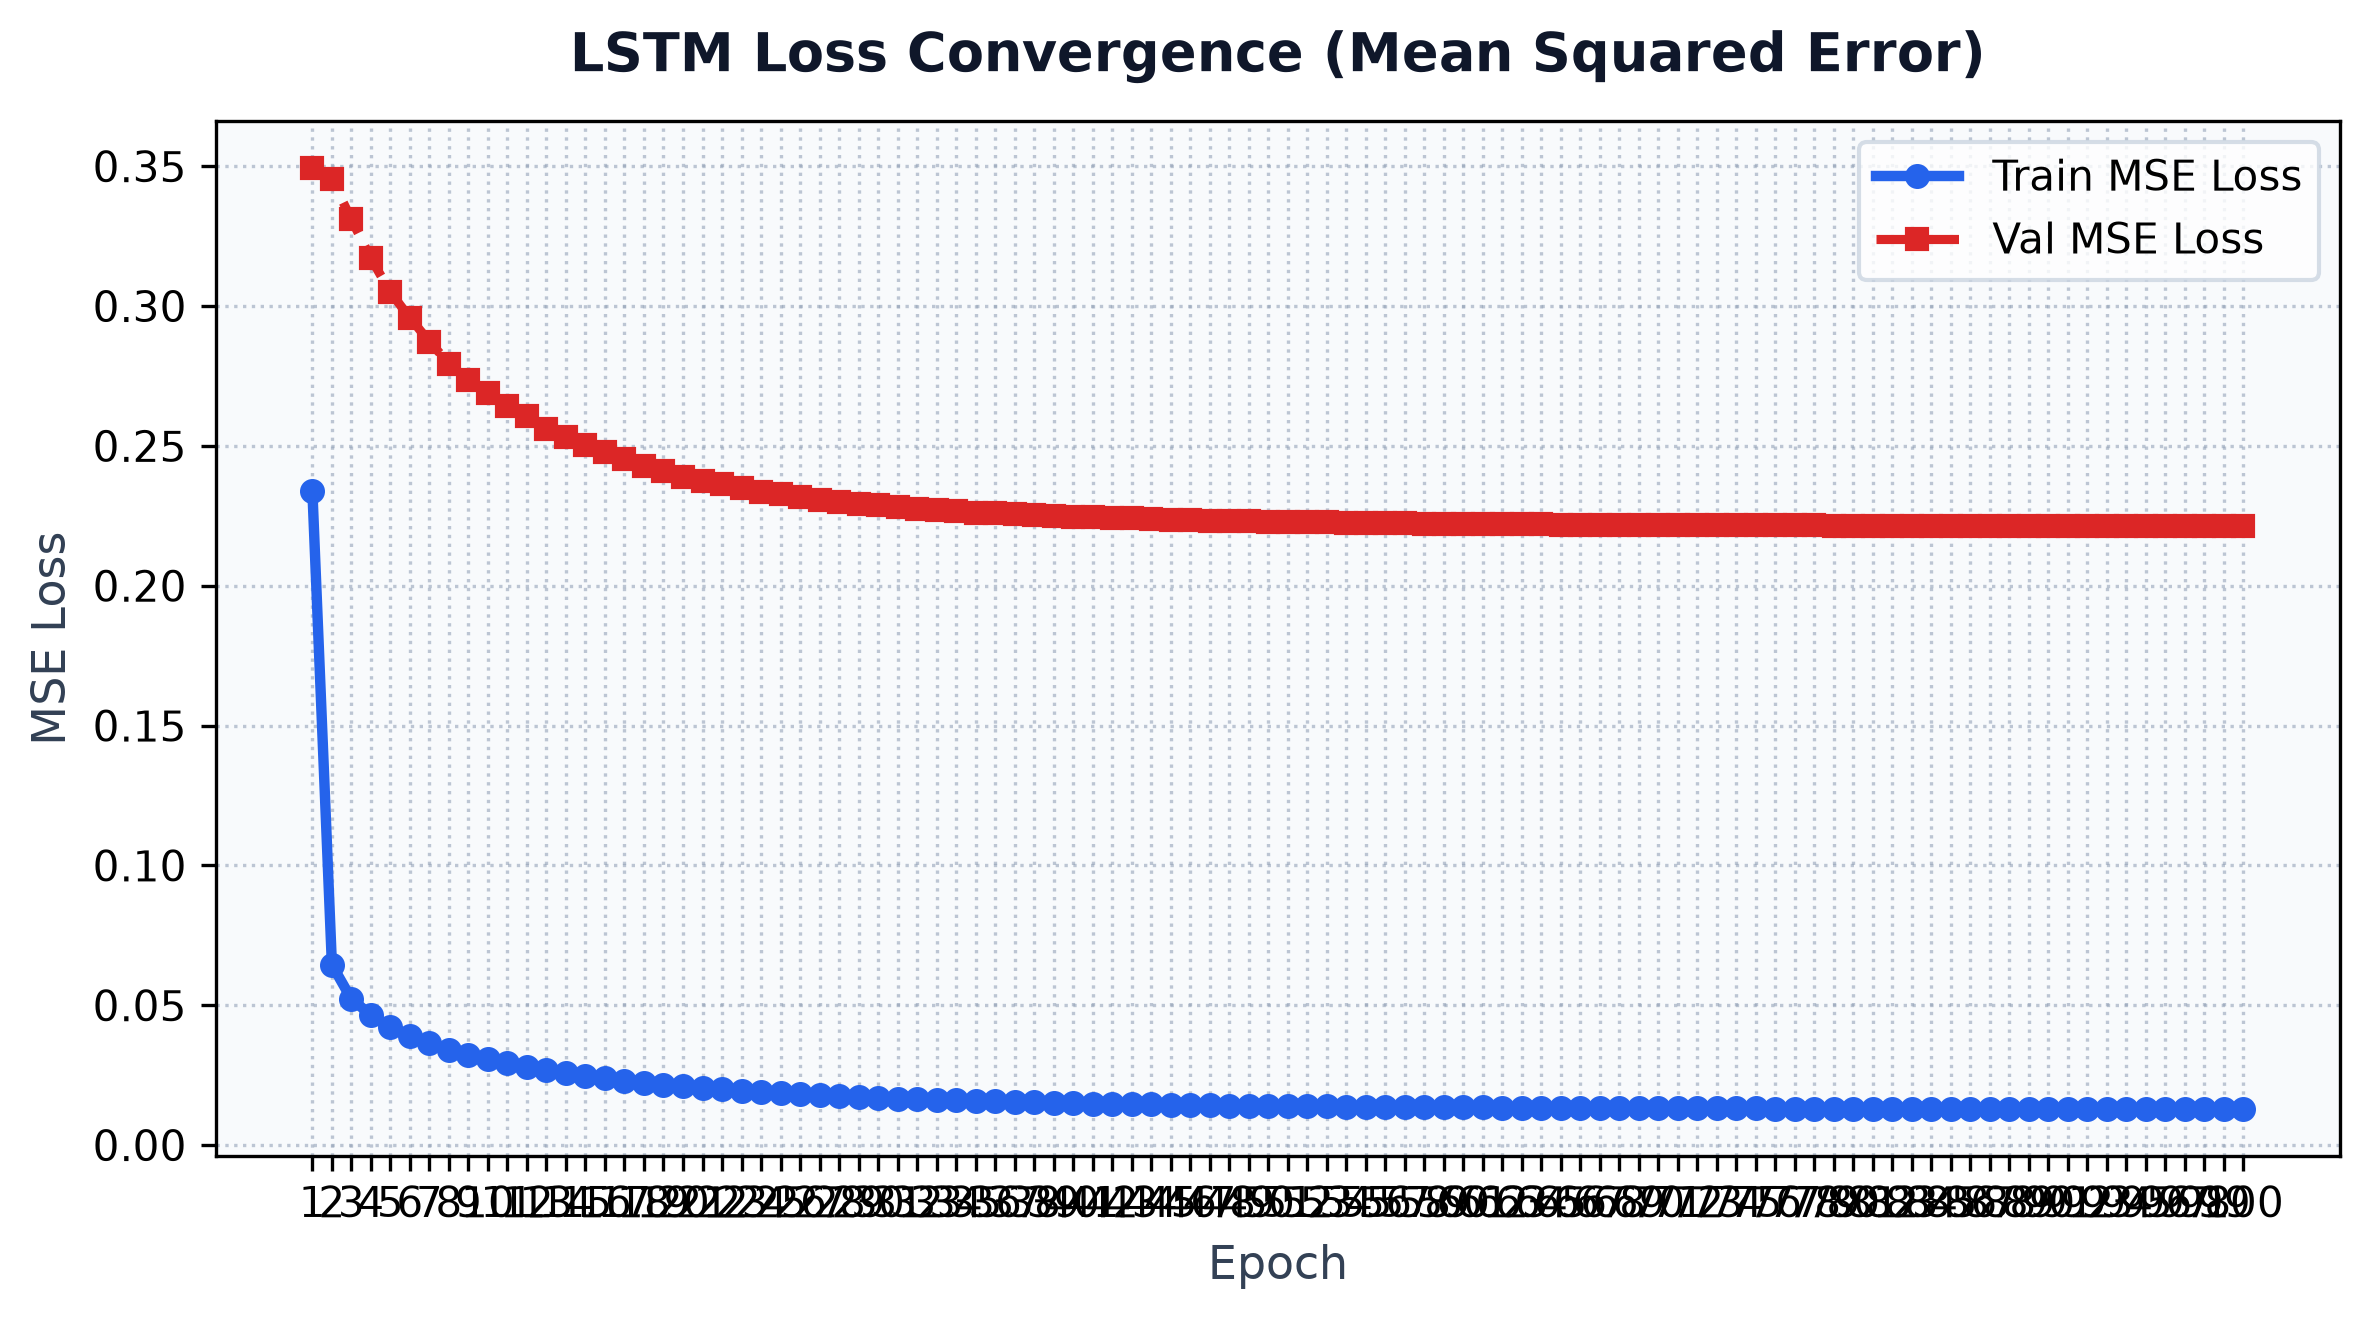
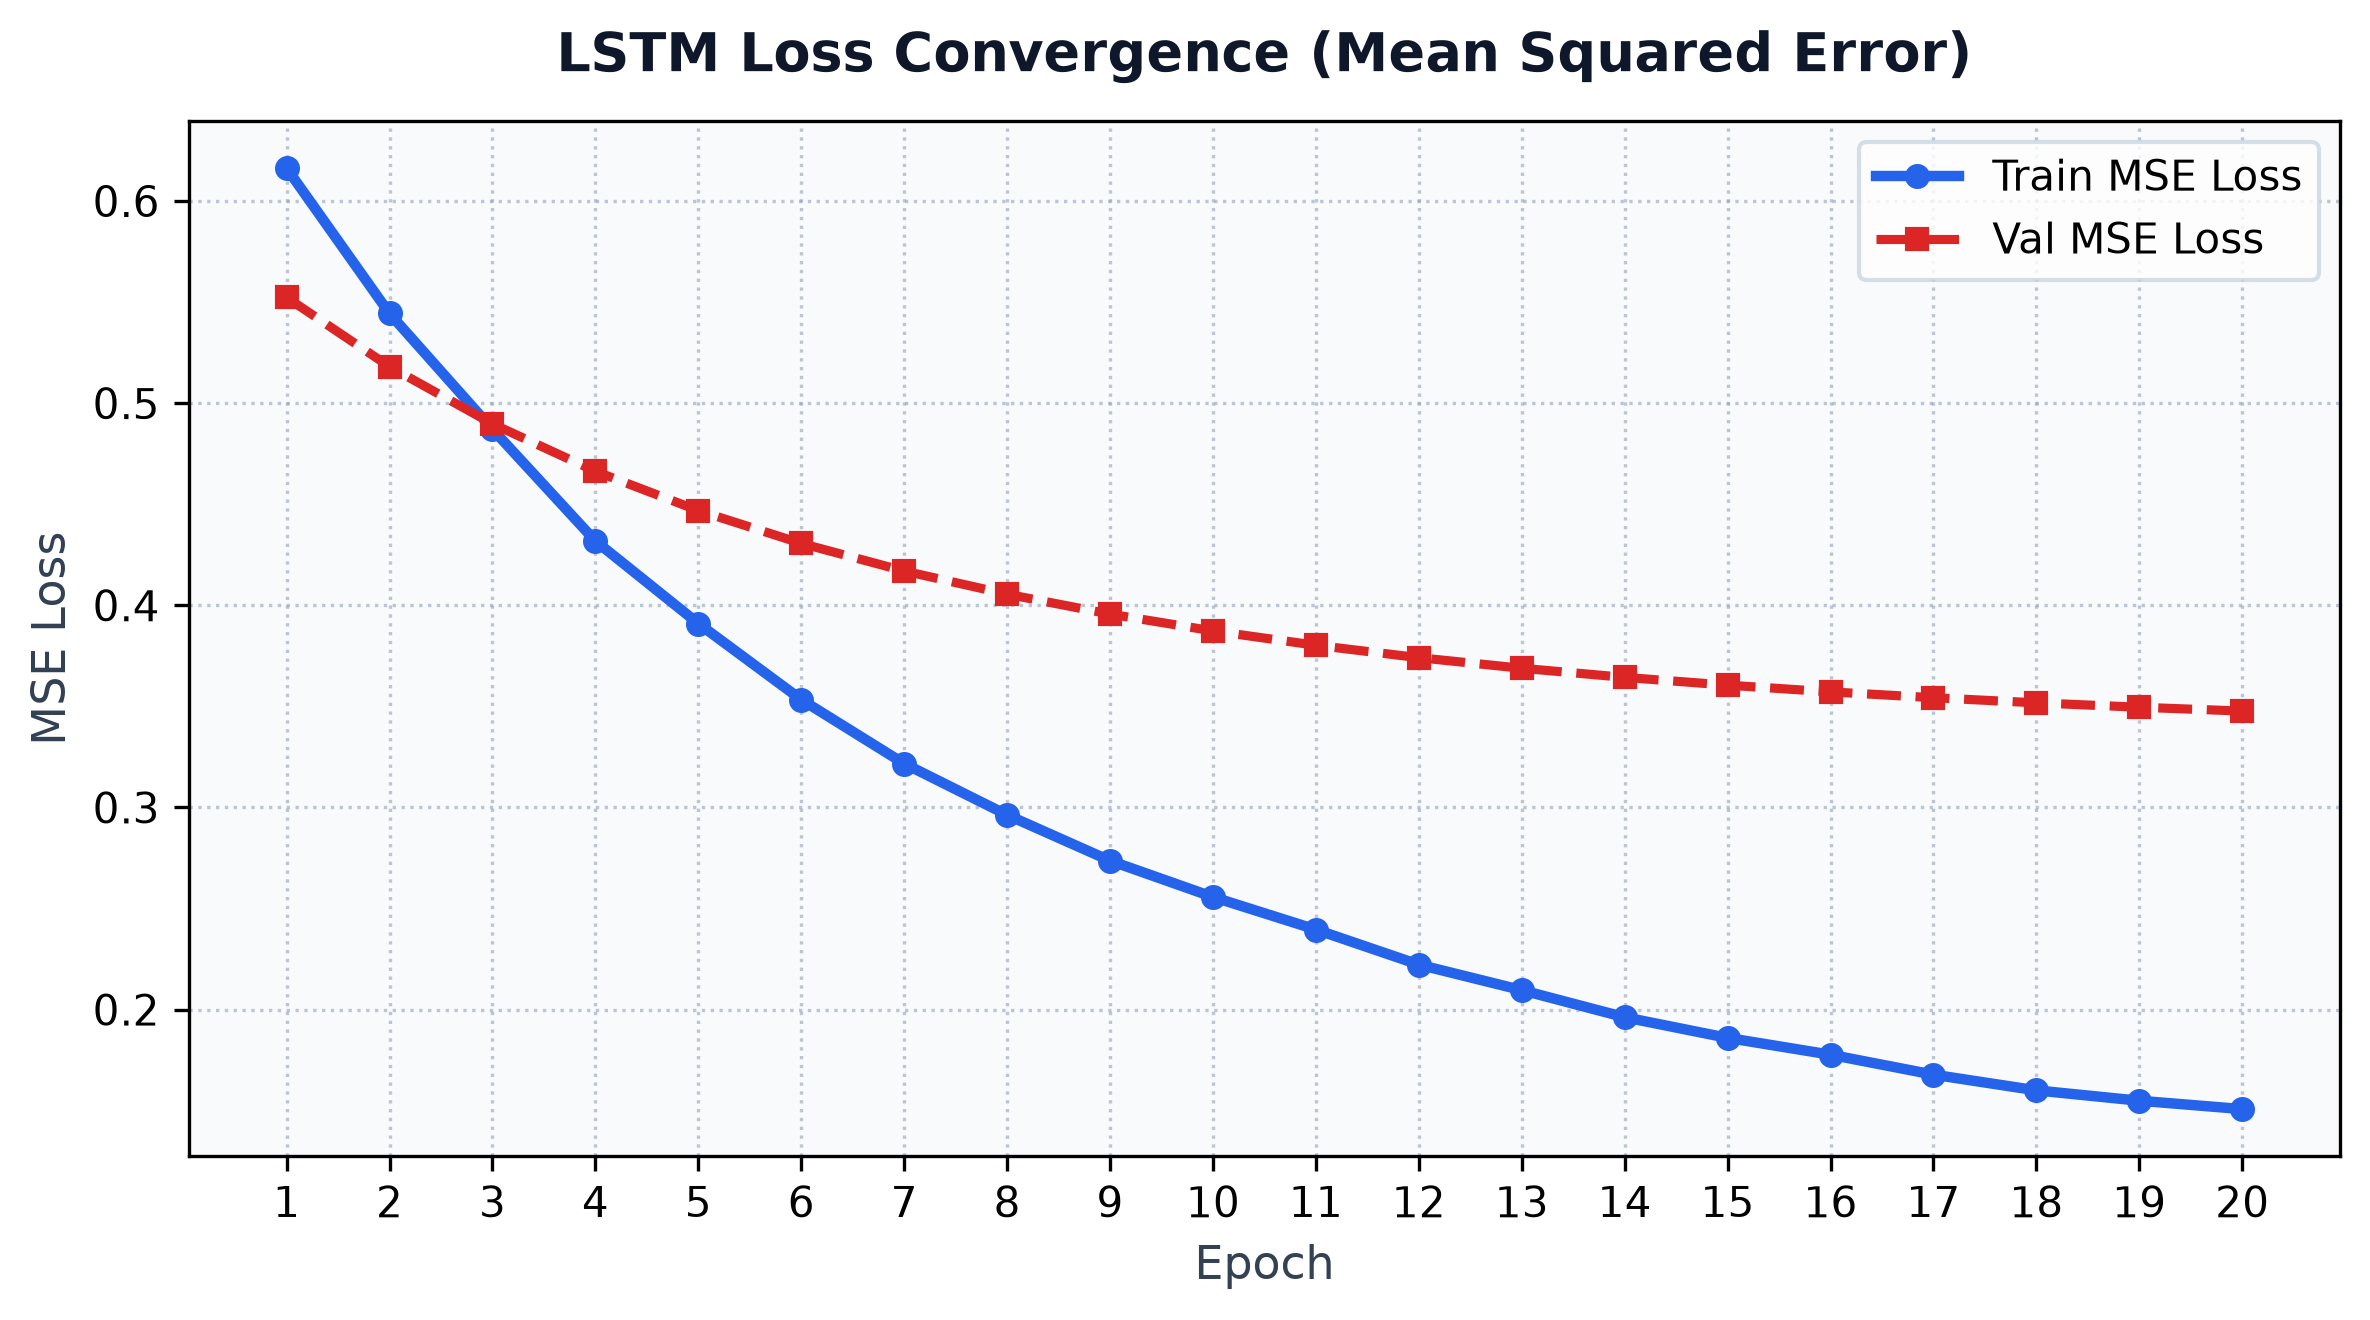
Add L2 weight decay, gradient clipping, and recurrent dropout regularization to LSTM

diff --git a/src/lstm/cell.py b/src/lstm/cell.py
@@ -1,4 +1,4 @@
-"""Modular, vectorized LSTM Cell implementation."""
+"""Modular, vectorized LSTM Cell implementation with gradient clipping and L2 regularization."""
 
 import numpy as np
 from typing import Tuple, Dict
@@ -13,6 +13,8 @@ class LSTMCell:
         input_dim: int,
         hidden_dim: int,
         learning_rate: float = 0.01,
+        weight_decay: float = 1e-4,
+        grad_clip: float = 5.0,
     ) -> None:
         """Initialize LSTM cell parameters.
 
@@ -20,10 +22,14 @@ class LSTMCell:
             input_dim: Input dimension size.
             hidden_dim: Hidden state / cell state dimension size.
             learning_rate: Learning rate for parameters.
+            weight_decay: L2 regularization coefficient.
+            grad_clip: Maximum gradient norm for clipping.
         """
         self.input_dim = input_dim
         self.hidden_dim = hidden_dim
         self.learning_rate = learning_rate
+        self.weight_decay = weight_decay
+        self.grad_clip = grad_clip
 
         # Xavier / Glorot uniform initialization for combined weights [W_f; W_i; W_c; W_o]
         concat_dim = input_dim + hidden_dim
@@ -51,10 +57,7 @@ class LSTMCell:
         Returns:
             Tuple of (h_next, c_next, cache_dict).
         """
-        # Concatenate input and previous hidden state: (N, input_dim + hidden_dim)
         z = np.hstack((x, h_prev))
-
-        # Gate linear projection: (N, 4 * hidden_dim)
         gates = np.dot(z, self.W.T) + self.b
 
         H = self.hidden_dim
@@ -63,11 +66,8 @@ class LSTMCell:
         c_tilde = Tanh.forward(gates[:, 2*H:3*H])
         o_gate = Sigmoid.forward(gates[:, 3*H:])
 
-        # Cell state update
         c_next = f_gate * c_prev + i_gate * c_tilde
         tanh_c_next = Tanh.forward(c_next)
-
-        # Hidden state update
         h_next = o_gate * tanh_c_next
 
         cache = {
@@ -107,43 +107,43 @@ class LSTMCell:
         c_tilde = cache["c_tilde"]
         o_gate = cache["o_gate"]
         c_prev = cache["c_prev"]
-        c_next = cache["c_next"]
         tanh_c_next = cache["tanh_c_next"]
 
-        # Gradient wrt output gate and tanh(c_next)
         do_gate = dh_next * tanh_c_next
         dc_target = dh_next * o_gate * Tanh.derivative(tanh_c_next) + dc_next
 
-        # Gradients wrt individual gates
         df_gate = dc_target * c_prev
         di_gate = dc_target * c_tilde
         dc_tilde = dc_target * i_gate
         dc_prev = dc_target * f_gate
 
-        # Derivatives wrt pre-activation gates
         d_gates_f = df_gate * Sigmoid.derivative(f_gate)
         d_gates_i = di_gate * Sigmoid.derivative(i_gate)
         d_gates_c = dc_tilde * Tanh.derivative(c_tilde)
         d_gates_o = do_gate * Sigmoid.derivative(o_gate)
 
-        # Concatenate gate derivatives: (N, 4 * hidden_dim)
         d_gates = np.hstack((d_gates_f, d_gates_i, d_gates_c, d_gates_o))
 
-        # Weight and bias gradients
         self.dW += np.dot(d_gates.T, z)
         self.db += np.sum(d_gates, axis=0)
 
-        # Gradient wrt concatenated input z = [x, h_prev]
         dz = np.dot(d_gates, self.W)
-
         dx = dz[:, :self.input_dim]
         dh_prev = dz[:, self.input_dim:]
 
         return dx, dh_prev, dc_prev
 
-    def update_params(self) -> None:
-        """Update weights and zero out gradient accumulators."""
-        self.W -= self.learning_rate * self.dW
-        self.b -= self.learning_rate * self.db
+    def update_params(self, batch_size: int = 1) -> None:
+        """Update weights with L2 regularization and gradient clipping."""
+        g_W = self.dW / batch_size + self.weight_decay * self.W
+        g_b = self.db / batch_size
+
+        if self.grad_clip > 0.0:
+            g_W = np.clip(g_W, -self.grad_clip, self.grad_clip)
+            g_b = np.clip(g_b, -self.grad_clip, self.grad_clip)
+
+        self.W -= self.learning_rate * g_W
+        self.b -= self.learning_rate * g_b
+
         self.dW.fill(0.0)
         self.db.fill(0.0)

diff --git a/src/lstm/layers.py b/src/lstm/layers.py
@@ -1,4 +1,4 @@
-"""Recurrent LSTM sequence layer."""
+"""Recurrent LSTM sequence layer with dropout support."""
 
 import numpy as np
 from typing import Tuple, List, Dict, Union
@@ -13,7 +13,10 @@ class LSTMLayer:
         input_dim: int,
         hidden_dim: int,
         return_sequences: bool = False,
+        dropout: float = 0.0,
         learning_rate: float = 0.01,
+        weight_decay: float = 1e-4,
+        grad_clip: float = 5.0,
     ) -> None:
         """Initialize LSTMLayer.
 
@@ -21,17 +24,28 @@ class LSTMLayer:
             input_dim: Input dimension per step.
             hidden_dim: Number of hidden units.
             return_sequences: Whether to return full output sequence or final hidden state.
+            dropout: Dropout probability (0.0 to 1.0) applied to hidden states.
             learning_rate: Learning rate for parameters.
+            weight_decay: L2 regularization coefficient.
+            grad_clip: Maximum gradient norm for clipping.
         """
         self.input_dim = input_dim
         self.hidden_dim = hidden_dim
         self.return_sequences = return_sequences
-        self.cell = LSTMCell(input_dim, hidden_dim, learning_rate=learning_rate)
+        self.dropout = dropout
+        self.cell = LSTMCell(
+            input_dim,
+            hidden_dim,
+            learning_rate=learning_rate,
+            weight_decay=weight_decay,
+            grad_clip=grad_clip,
+        )
 
         # Cache for backpropagation through time
         self.caches: List[Dict[str, np.ndarray]] = []
         self.h_states: List[np.ndarray] = []
         self.c_states: List[np.ndarray] = []
+        self.dropout_mask: np.ndarray = np.array([])
 
     def set_learning_rate(self, lr: float) -> None:
         """Set learning rate for the underlying cell."""
@@ -64,12 +78,21 @@ class LSTMLayer:
             c_states.append(c_curr)
             outputs.append(h_curr)
 
+        out_arr = np.stack(outputs, axis=1)  # (N, T, hidden_dim)
+
+        # Inverted dropout regularization during training
+        mask = np.ones_like(out_arr)
+        if training and self.dropout > 0.0:
+            prob = 1.0 - self.dropout
+            mask = (np.random.rand(*out_arr.shape) < prob) / prob
+            out_arr = out_arr * mask
+
         if training:
             self.caches = caches
             self.h_states = h_states
             self.c_states = c_states
+            self.dropout_mask = mask
 
-        out_arr = np.stack(outputs, axis=1)  # (N, T, hidden_dim)
         if self.return_sequences:
             return out_arr
         return out_arr[:, -1, :]  # (N, hidden_dim)
@@ -87,11 +110,13 @@ class LSTMLayer:
         N = dL_dout.shape[0]
 
         if not self.return_sequences:
-            # Map single output gradient to final step T-1
             dL_dout_seq = np.zeros((N, T, self.hidden_dim), dtype=np.float32)
             dL_dout_seq[:, -1, :] = dL_dout
         else:
             dL_dout_seq = dL_dout
+
+        if self.dropout > 0.0 and self.dropout_mask.size > 0:
+            dL_dout_seq = dL_dout_seq * self.dropout_mask
 
         dX = np.zeros((N, T, self.input_dim), dtype=np.float32)
         dh_next = np.zeros((N, self.hidden_dim), dtype=np.float32)
@@ -102,5 +127,5 @@ class LSTMLayer:
             dx_t, dh_next, dc_next = self.cell.backward(dh_t, dc_next, self.caches[t])
             dX[:, t, :] = dx_t
 
-        self.cell.update_params()
+        self.cell.update_params(batch_size=N)
         return dX

diff --git a/src/lstm/model.py b/src/lstm/model.py
@@ -1,4 +1,4 @@
-"""Sequential LSTM Model Container for time-series forecasting."""
+"""Sequential LSTM Model Container for time-series forecasting with regularization."""
 
 import numpy as np
 from typing import List, Dict, Tuple, Optional
@@ -16,6 +16,9 @@ class SequentialLSTM:
         hidden_dim: int = 32,
         output_dim: int = 1,
         learning_rate: float = 0.01,
+        weight_decay: float = 1e-4,
+        dropout: float = 0.0,
+        grad_clip: float = 5.0,
     ) -> None:
         """Initialize SequentialLSTM container.
 
@@ -24,9 +27,26 @@ class SequentialLSTM:
             hidden_dim: LSTM hidden units.
             output_dim: Forecast output dimension.
             learning_rate: Learning rate for parameters.
+            weight_decay: L2 regularization coefficient.
+            dropout: Recurrent dropout rate (0.0 to 1.0).
+            grad_clip: Maximum gradient clipping norm.
         """
-        self.lstm = LSTMLayer(input_dim, hidden_dim, return_sequences=False, learning_rate=learning_rate)
-        self.dense = DenseLayer(hidden_dim, output_dim, learning_rate=learning_rate)
+        self.lstm = LSTMLayer(
+            input_dim,
+            hidden_dim,
+            return_sequences=False,
+            dropout=dropout,
+            learning_rate=learning_rate,
+            weight_decay=weight_decay,
+            grad_clip=grad_clip,
+        )
+        self.dense = DenseLayer(
+            hidden_dim,
+            output_dim,
+            learning_rate=learning_rate,
+            weight_decay=weight_decay,
+            grad_clip=grad_clip,
+        )
 
     def set_learning_rate(self, lr: float) -> None:
         """Set learning rate across all sub-layers."""

diff --git a/src/lstm/dense.py b/src/lstm/dense.py
@@ -1,4 +1,4 @@
-"""Dense Linear Projection Layer for sequence outputs."""
+"""Dense Linear Projection Layer with L2 regularization and gradient clipping."""
 
 import numpy as np
 
@@ -11,6 +11,8 @@ class DenseLayer:
         in_features: int,
         out_features: int,
         learning_rate: float = 0.01,
+        weight_decay: float = 1e-4,
+        grad_clip: float = 5.0,
     ) -> None:
         """Initialize DenseLayer parameters.
 
@@ -18,10 +20,14 @@ class DenseLayer:
             in_features: Input dimension.
             out_features: Output dimension.
             learning_rate: Learning rate for parameters.
+            weight_decay: L2 regularization coefficient.
+            grad_clip: Maximum gradient norm for clipping.
         """
         self.in_features = in_features
         self.out_features = out_features
         self.learning_rate = learning_rate
+        self.weight_decay = weight_decay
+        self.grad_clip = grad_clip
 
         # Xavier uniform initialization
         limit = np.sqrt(6.0 / (in_features + out_features))
@@ -29,6 +35,8 @@ class DenseLayer:
         self.b = np.zeros((out_features,), dtype=np.float32)
 
         self.x: np.ndarray = np.array([])
+        self.dW: np.ndarray = np.array([])
+        self.db: np.ndarray = np.array([])
 
     def set_learning_rate(self, lr: float) -> None:
         """Set learning rate for parameters."""
@@ -49,7 +57,7 @@ class DenseLayer:
         return np.dot(x, self.W) + self.b
 
     def backward(self, dL_dout: np.ndarray) -> np.ndarray:
-        """Backward pass wrt linear projection layer.
+        """Backward pass with L2 regularization and gradient clipping.
 
         Args:
             dL_dout: Gradient wrt output (N, out_features).
@@ -58,8 +66,15 @@ class DenseLayer:
             Gradient wrt input (N, in_features).
         """
         N = self.x.shape[0]
-        dL_dW = np.dot(self.x.T, dL_dout) / N
-        dL_db = np.sum(dL_dout, axis=0) / N
+        self.dW = np.dot(self.x.T, dL_dout)
+        self.db = np.sum(dL_dout, axis=0)
+
+        dL_dW = (self.dW / N) + self.weight_decay * self.W
+        dL_db = self.db / N
+
+        if self.grad_clip > 0.0:
+            dL_dW = np.clip(dL_dW, -self.grad_clip, self.grad_clip)
+            dL_db = np.clip(dL_db, -self.grad_clip, self.grad_clip)
 
         dL_dx = np.dot(dL_dout, self.W.T)
 

diff --git a/train_full.py b/train_full.py
@@ -23,6 +23,9 @@ def parse_args():
     parser.add_argument("--batch-size", type=int, default=32, help="Mini-batch size (default: 32)")
     parser.add_argument("--lr", type=float, default=0.03, help="Initial learning rate (default: 0.03)")
     parser.add_argument("--lr-decay", type=float, default=0.95, help="Learning rate decay factor")
+    parser.add_argument("--weight-decay", type=float, default=1e-4, help="L2 regularization weight decay")
+    parser.add_argument("--dropout", type=float, default=0.1, help="Recurrent dropout rate")
+    parser.add_argument("--grad-clip", type=float, default=5.0, help="Maximum gradient clipping norm")
     parser.add_argument("--hidden-dim", type=int, default=32, help="LSTM hidden units")
     parser.add_argument("--seq-len", type=int, default=20, help="Sequence length")
     return parser.parse_args()
@@ -91,7 +94,15 @@ def main():
     X_train, y_train = generate_sine_wave_data(num_samples=2000, seq_length=args.seq_len)
     X_test, y_test = generate_sine_wave_data(num_samples=500, seq_length=args.seq_len, seed=123)
 
-    model = SequentialLSTM(input_dim=1, hidden_dim=args.hidden_dim, output_dim=1, learning_rate=args.lr)
+    model = SequentialLSTM(
+        input_dim=1,
+        hidden_dim=args.hidden_dim,
+        output_dim=1,
+        learning_rate=args.lr,
+        weight_decay=args.weight_decay,
+        dropout=args.dropout,
+        grad_clip=args.grad_clip,
+    )
 
     history = {
         "loss": [],